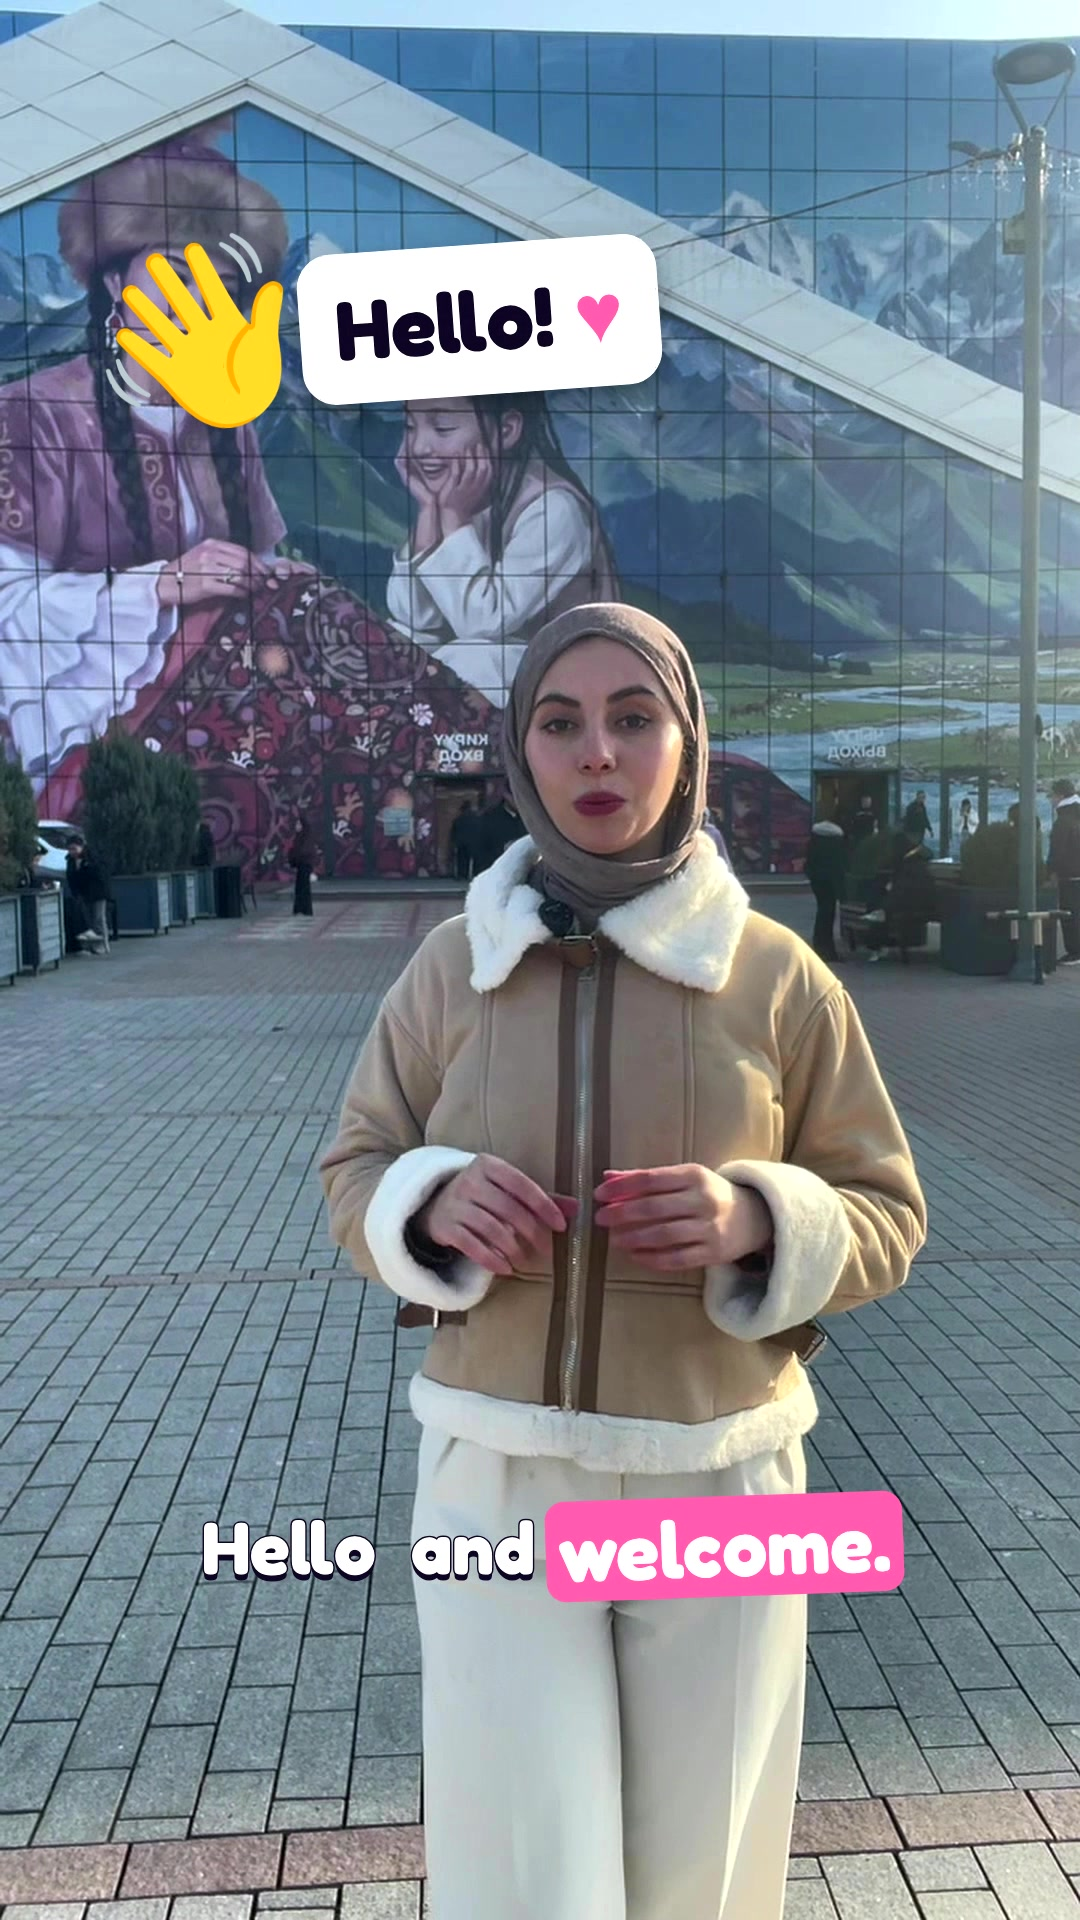
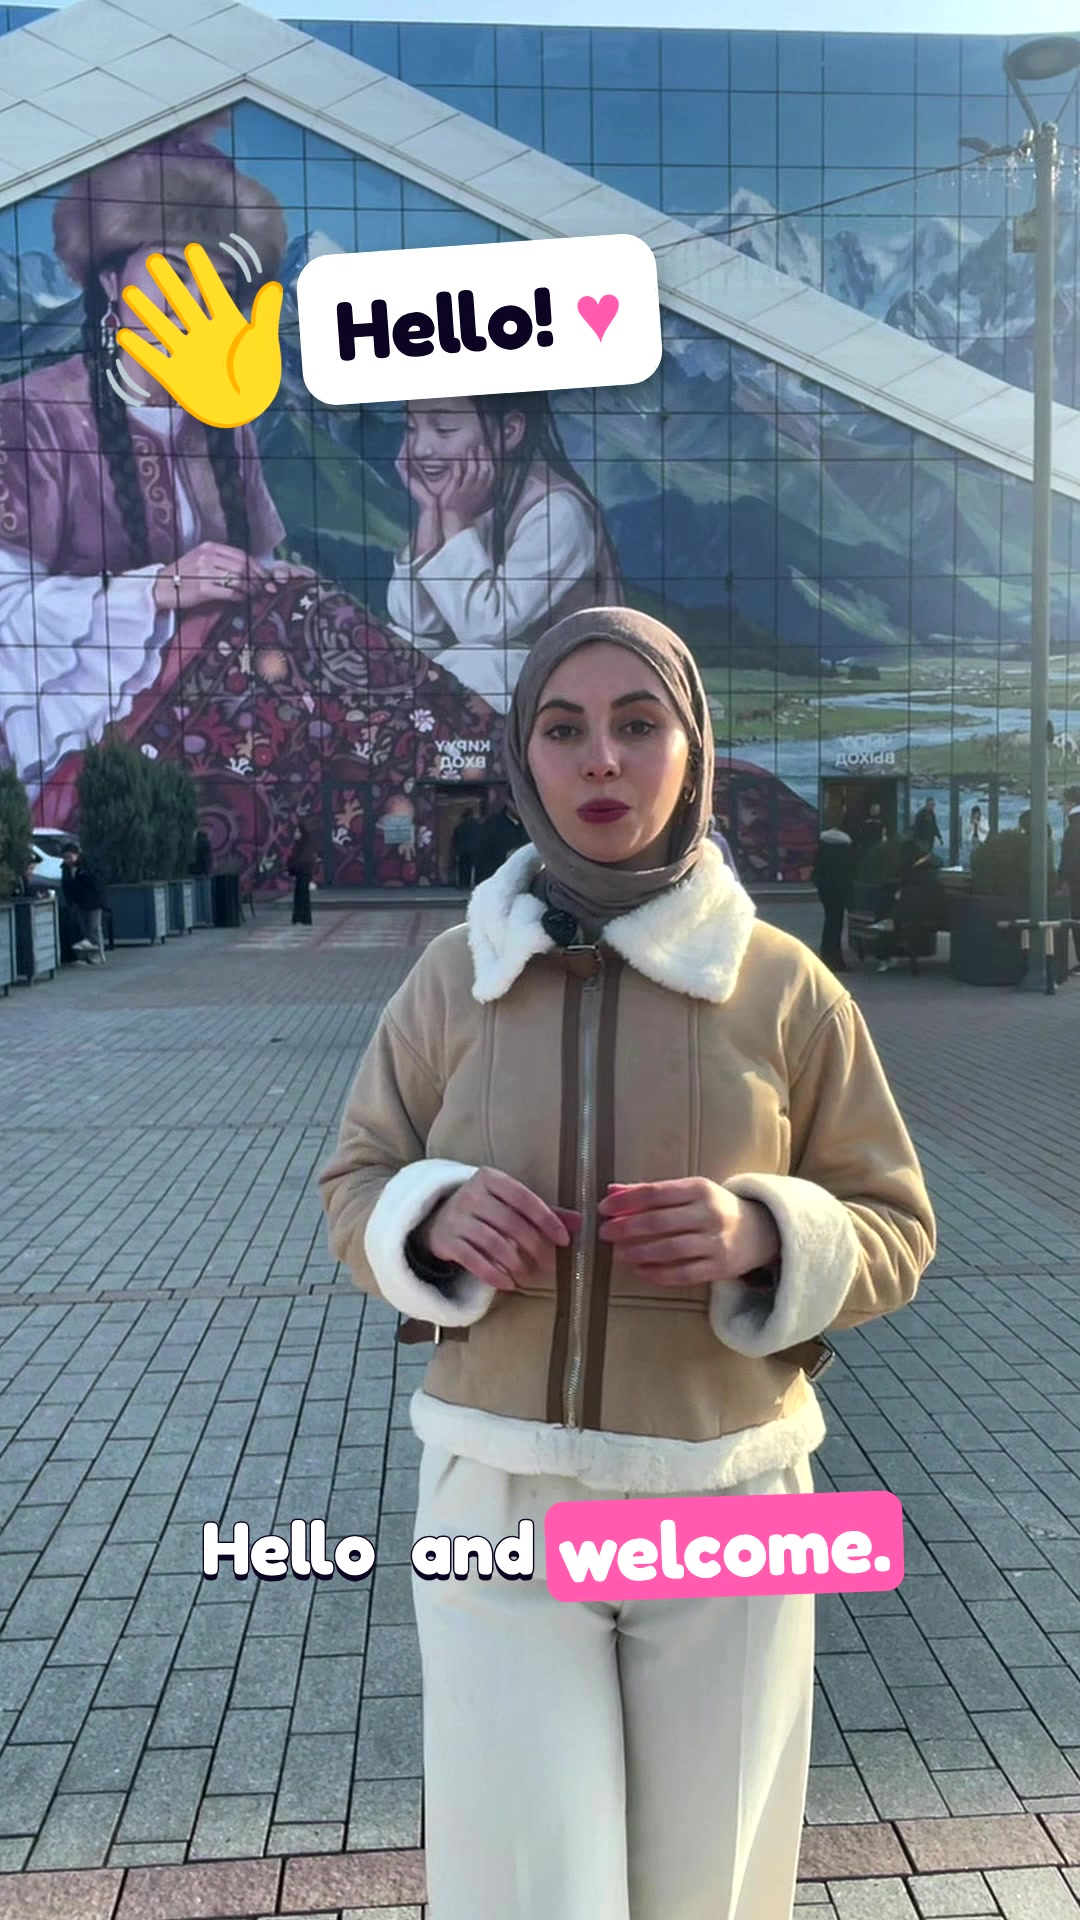
short-vlog: remove item zooms, soft glides only (face always in frame)
Claude-Session: https://claude.ai/code/session_01AxhibgRmBs7v8bGQfSccih

diff --git a/video-agent/edits/short-vlog/source/spec.js b/video-agent/edits/short-vlog/source/spec.js
@@ -1,4 +1,4 @@
-// Lougha Online - slow English vlog at the mall. Vlog style: natural pace, jump cuts with quick punch-ins, zooms onto each item,
+// Lougha Online - slow English vlog at the mall. Vlog style: natural pace, soft glides on jump cuts (max 6 %, no zoom on items: they cut her face),
 // English captions word by word (current word on a pink pill), NEW WORD stickers with the French translation, light synth music.
 // assets/source.mp4 = the take with long gaps cut + camera moves (source/camera-zoom-expr.txt); mg.html maps cut time -> take time (keeps.json).
 window.SPEC = {
